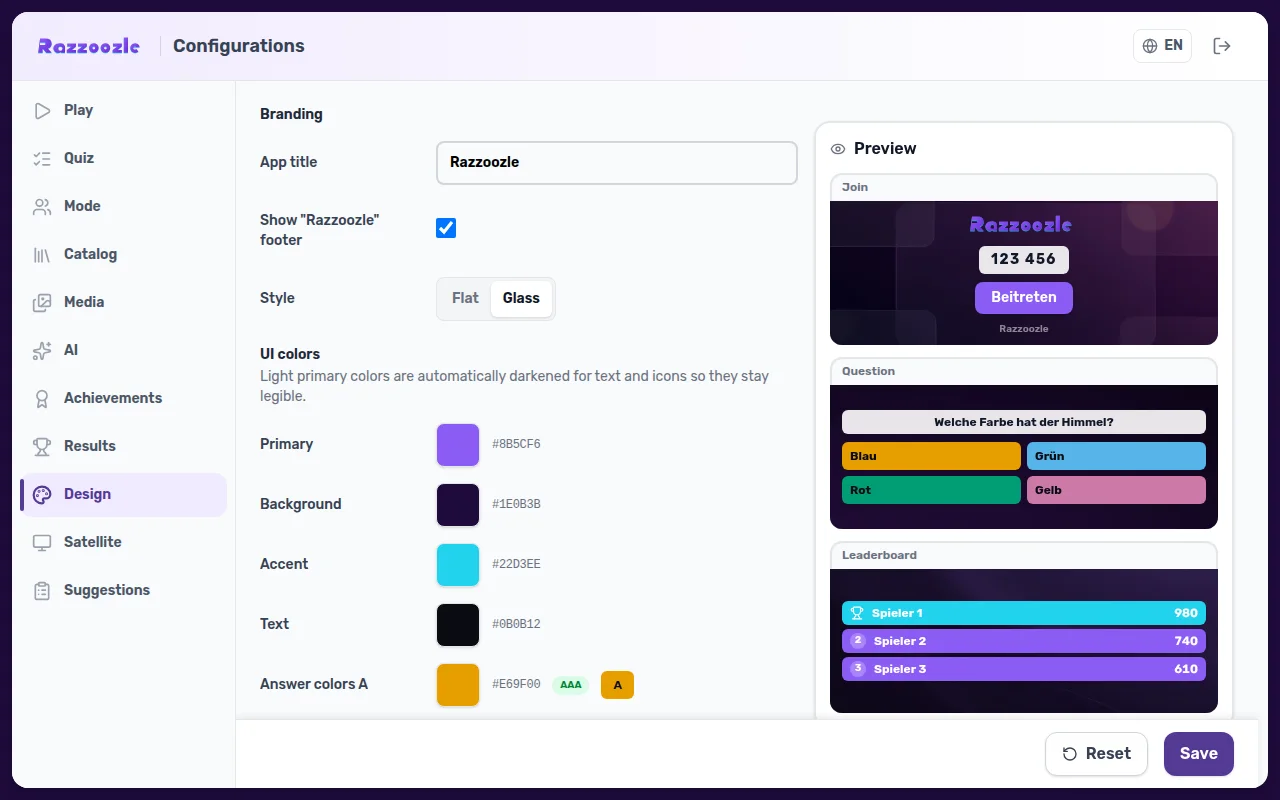
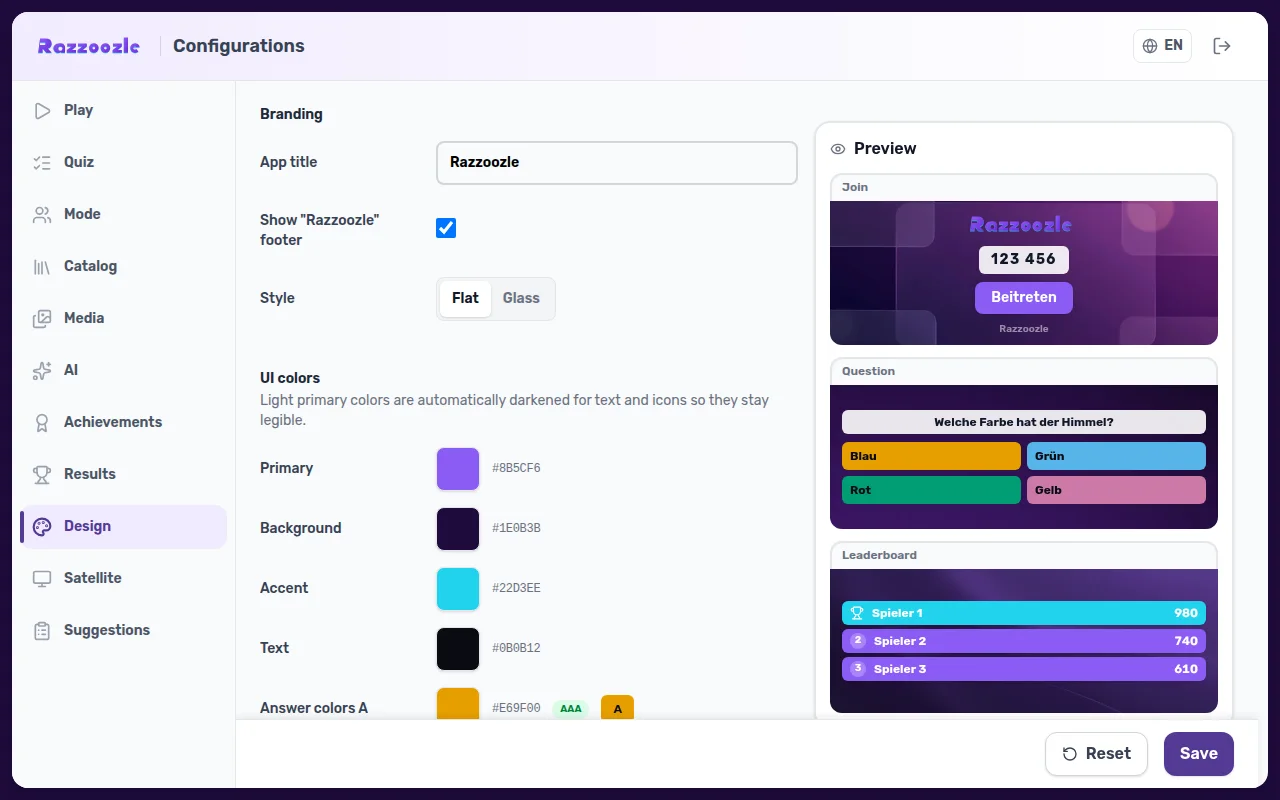
ui: more spacing between config nav items + Design tab sections

diff --git a/packages/web/src/features/manager/components/configurations/ConfigTheme.tsx b/packages/web/src/features/manager/components/configurations/ConfigTheme.tsx
@@ -291,7 +291,7 @@ const ConfigTheme = () => {
         */}
         <div className="grid grid-cols-1 gap-4 xl:grid-cols-[minmax(0,1fr)_minmax(320px,420px)] xl:items-start">
           {/* ── LEFT: settings ─────────────────────────────────────── */}
-          <div className="flex min-w-0 flex-col">
+          <div className="flex min-w-0 flex-col gap-6">
 
             {/* ── App-Titel & Beschreibung ──────────────────────────── */}
             <FormSection title={t("manager:theme.branding")}>

diff --git a/packages/web/src/features/manager/components/console/ConsoleShell.tsx b/packages/web/src/features/manager/components/console/ConsoleShell.tsx
@@ -174,7 +174,7 @@ const ConsoleShell = ({
             aria-orientation="horizontal"
             onKeyDown={handleKeyDown}
             className={clsx(
-              "flex gap-1 overflow-x-auto",
+              "flex gap-2 overflow-x-auto",
               "min-[720px]:flex-col min-[720px]:overflow-visible",
             )}
           >